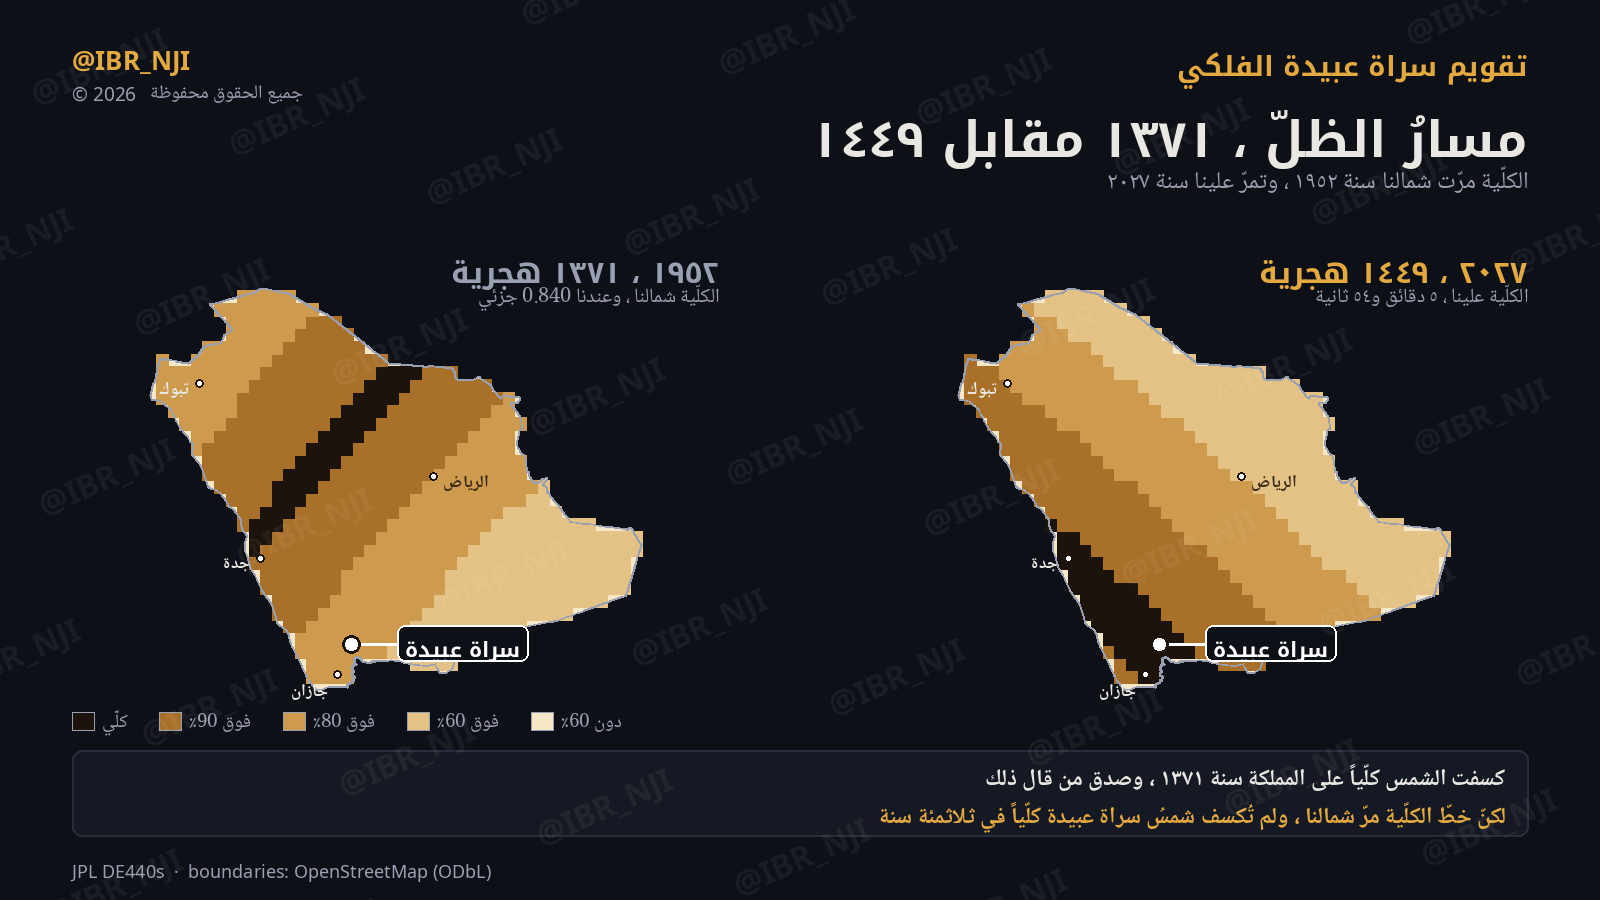
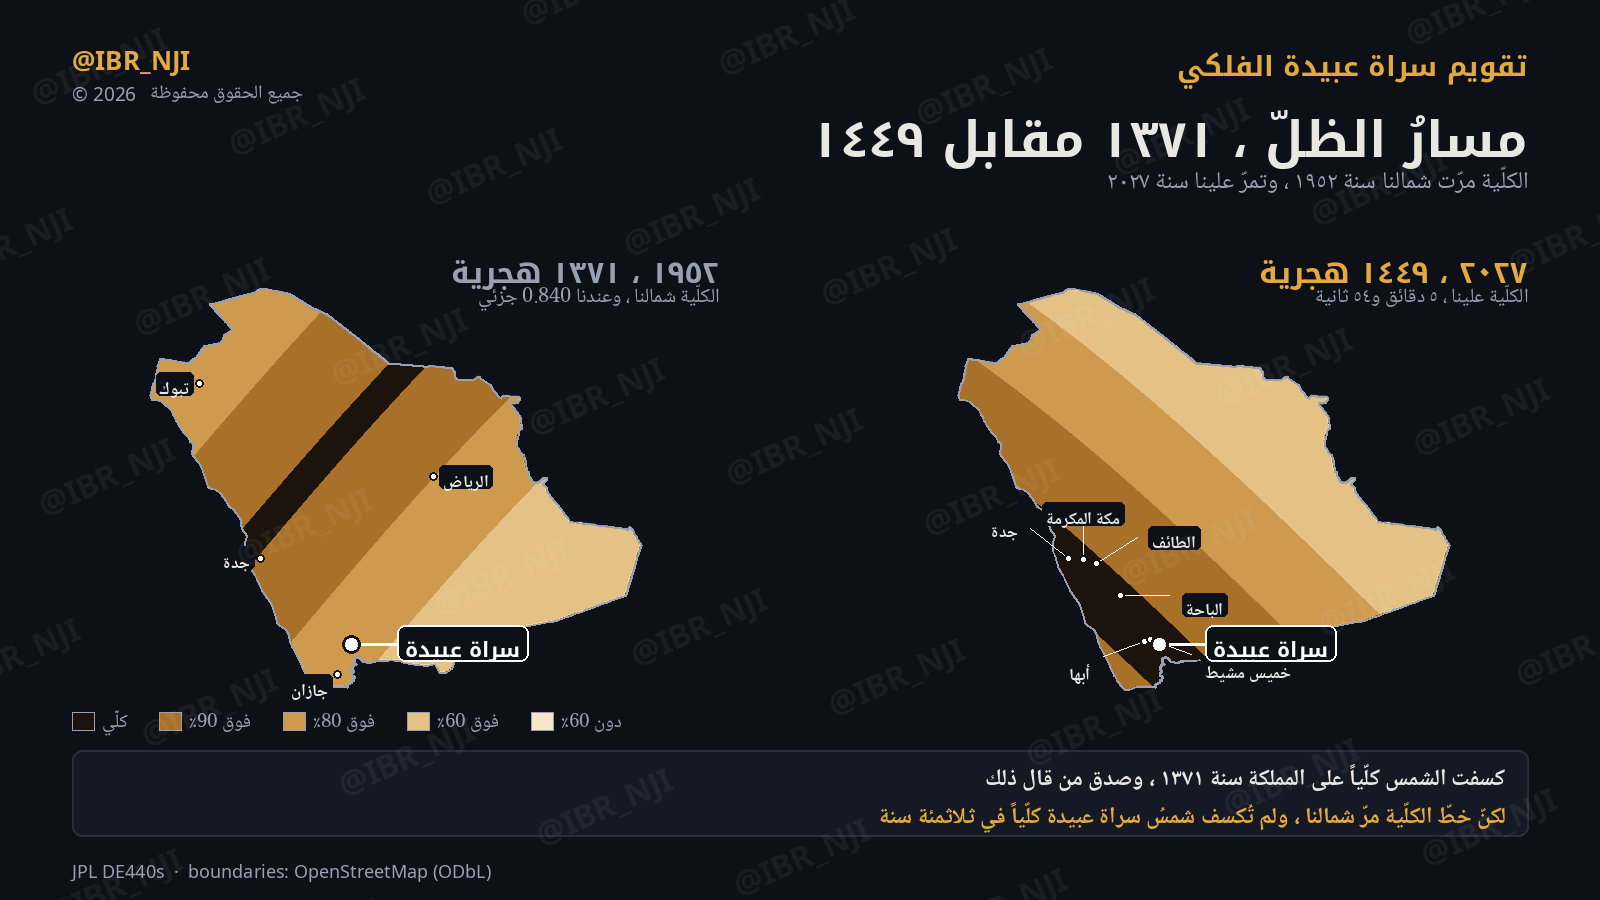
بطاقة مسار كسوف ٢٠٢٧: حقل حيّ بدقة البكسل بدل شبكة خشنة، والطرف الآن خط أملس دقيق لا أسنان متعرجة — ومدن المسار الست موسومة بخيوط قائد

diff --git a/dashboard.html b/dashboard.html
@@ -170,7 +170,7 @@
   <div>تقويم سراة عبيدة الفلكي · نحسب ولا ننقل · © 2026 جميع الحقوق محفوظة</div>
   <div>الحدود الإدارية من خرائط الشارع المفتوحة برخصة ODbL ·
     تقويم الكواكب JPL DE440s · مواقع النجوم Hipparcos</div>
-  <div class="build">آخر تحديث: 24 صفر 1448هـ · الجمعة 7 أغسطس 2026م · الإصدار 5810013 —
+  <div class="build">آخر تحديث: 25 صفر 1448هـ · السبت 8 أغسطس 2026م · الإصدار 5810013 —
     تُولَّد هذه الصفحات آلياً من المحرّك ولا تُحرَّر يدوياً</div>
 </footer>
 <script src="site.js?v=038343be7d" defer></script>

diff --git a/eclipse.html b/eclipse.html
@@ -129,7 +129,7 @@
   <div>تقويم سراة عبيدة الفلكي · نحسب ولا ننقل · © 2026 جميع الحقوق محفوظة</div>
   <div>الحدود الإدارية من خرائط الشارع المفتوحة برخصة ODbL ·
     تقويم الكواكب JPL DE440s · مواقع النجوم Hipparcos</div>
-  <div class="build">آخر تحديث: 24 صفر 1448هـ · الجمعة 7 أغسطس 2026م · الإصدار 5810013 —
+  <div class="build">آخر تحديث: 25 صفر 1448هـ · السبت 8 أغسطس 2026م · الإصدار 5810013 —
     تُولَّد هذه الصفحات آلياً من المحرّك ولا تُحرَّر يدوياً</div>
 </footer>
 <script src="site.js?v=038343be7d" defer></script>

diff --git a/eclipse2027.html b/eclipse2027.html
@@ -181,7 +181,7 @@
   <div>تقويم سراة عبيدة الفلكي · نحسب ولا ننقل · © 2026 جميع الحقوق محفوظة</div>
   <div>الحدود الإدارية من خرائط الشارع المفتوحة برخصة ODbL ·
     تقويم الكواكب JPL DE440s · مواقع النجوم Hipparcos</div>
-  <div class="build">آخر تحديث: 24 صفر 1448هـ · الجمعة 7 أغسطس 2026م · الإصدار 5810013 —
+  <div class="build">آخر تحديث: 25 صفر 1448هـ · السبت 8 أغسطس 2026م · الإصدار 5810013 —
     تُولَّد هذه الصفحات آلياً من المحرّك ولا تُحرَّر يدوياً</div>
 </footer>
 <script src="site.js?v=038343be7d" defer></script>

diff --git a/hilal.html b/hilal.html
@@ -149,7 +149,7 @@
   <div>تقويم سراة عبيدة الفلكي · نحسب ولا ننقل · © 2026 جميع الحقوق محفوظة</div>
   <div>الحدود الإدارية من خرائط الشارع المفتوحة برخصة ODbL ·
     تقويم الكواكب JPL DE440s · مواقع النجوم Hipparcos</div>
-  <div class="build">آخر تحديث: 24 صفر 1448هـ · الجمعة 7 أغسطس 2026م · الإصدار 5810013 —
+  <div class="build">آخر تحديث: 25 صفر 1448هـ · السبت 8 أغسطس 2026م · الإصدار 5810013 —
     تُولَّد هذه الصفحات آلياً من المحرّك ولا تُحرَّر يدوياً</div>
 </footer>
 <script src="site.js?v=038343be7d" defer></script>

diff --git a/index.html b/index.html
@@ -211,7 +211,7 @@
   <div>تقويم سراة عبيدة الفلكي · نحسب ولا ننقل · © 2026 جميع الحقوق محفوظة</div>
   <div>الحدود الإدارية من خرائط الشارع المفتوحة برخصة ODbL ·
     تقويم الكواكب JPL DE440s · مواقع النجوم Hipparcos</div>
-  <div class="build">آخر تحديث: 24 صفر 1448هـ · الجمعة 7 أغسطس 2026م · الإصدار 5810013 —
+  <div class="build">آخر تحديث: 25 صفر 1448هـ · السبت 8 أغسطس 2026م · الإصدار 5810013 —
     تُولَّد هذه الصفحات آلياً من المحرّك ولا تُحرَّر يدوياً</div>
 </footer>
 <script src="site.js?v=038343be7d" defer></script>

diff --git a/suhail.html b/suhail.html
@@ -191,7 +191,7 @@
   <div>تقويم سراة عبيدة الفلكي · نحسب ولا ننقل · © 2026 جميع الحقوق محفوظة</div>
   <div>الحدود الإدارية من خرائط الشارع المفتوحة برخصة ODbL ·
     تقويم الكواكب JPL DE440s · مواقع النجوم Hipparcos</div>
-  <div class="build">آخر تحديث: 24 صفر 1448هـ · الجمعة 7 أغسطس 2026م · الإصدار 5810013 —
+  <div class="build">آخر تحديث: 25 صفر 1448هـ · السبت 8 أغسطس 2026م · الإصدار 5810013 —
     تُولَّد هذه الصفحات آلياً من المحرّك ولا تُحرَّر يدوياً</div>
 </footer>
 <script src="site.js?v=038343be7d" defer></script>

diff --git a/mercjup.html b/mercjup.html
@@ -92,7 +92,7 @@
   <div>تقويم سراة عبيدة الفلكي · نحسب ولا ننقل · © 2026 جميع الحقوق محفوظة</div>
   <div>الحدود الإدارية من خرائط الشارع المفتوحة برخصة ODbL ·
     تقويم الكواكب JPL DE440s · مواقع النجوم Hipparcos</div>
-  <div class="build">آخر تحديث: 24 صفر 1448هـ · الجمعة 7 أغسطس 2026م · الإصدار 5810013 —
+  <div class="build">آخر تحديث: 25 صفر 1448هـ · السبت 8 أغسطس 2026م · الإصدار 5810013 —
     تُولَّد هذه الصفحات آلياً من المحرّك ولا تُحرَّر يدوياً</div>
 </footer>
 <script src="site.js?v=038343be7d" defer></script>

diff --git a/moonpleiades.html b/moonpleiades.html
@@ -84,7 +84,7 @@
   <div>تقويم سراة عبيدة الفلكي · نحسب ولا ننقل · © 2026 جميع الحقوق محفوظة</div>
   <div>الحدود الإدارية من خرائط الشارع المفتوحة برخصة ODbL ·
     تقويم الكواكب JPL DE440s · مواقع النجوم Hipparcos</div>
-  <div class="build">آخر تحديث: 24 صفر 1448هـ · الجمعة 7 أغسطس 2026م · الإصدار 5810013 —
+  <div class="build">آخر تحديث: 25 صفر 1448هـ · السبت 8 أغسطس 2026م · الإصدار 5810013 —
     تُولَّد هذه الصفحات آلياً من المحرّك ولا تُحرَّر يدوياً</div>
 </footer>
 <script src="site.js?v=038343be7d" defer></script>

diff --git a/perseids.html b/perseids.html
@@ -93,7 +93,7 @@
   <div>تقويم سراة عبيدة الفلكي · نحسب ولا ننقل · © 2026 جميع الحقوق محفوظة</div>
   <div>الحدود الإدارية من خرائط الشارع المفتوحة برخصة ODbL ·
     تقويم الكواكب JPL DE440s · مواقع النجوم Hipparcos</div>
-  <div class="build">آخر تحديث: 24 صفر 1448هـ · الجمعة 7 أغسطس 2026م · الإصدار 5810013 —
+  <div class="build">آخر تحديث: 25 صفر 1448هـ · السبت 8 أغسطس 2026م · الإصدار 5810013 —
     تُولَّد هذه الصفحات آلياً من المحرّك ولا تُحرَّر يدوياً</div>
 </footer>
 <script src="site.js?v=038343be7d" defer></script>

diff --git a/venus.html b/venus.html
@@ -93,7 +93,7 @@
   <div>تقويم سراة عبيدة الفلكي · نحسب ولا ننقل · © 2026 جميع الحقوق محفوظة</div>
   <div>الحدود الإدارية من خرائط الشارع المفتوحة برخصة ODbL ·
     تقويم الكواكب JPL DE440s · مواقع النجوم Hipparcos</div>
-  <div class="build">آخر تحديث: 24 صفر 1448هـ · الجمعة 7 أغسطس 2026م · الإصدار 5810013 —
+  <div class="build">آخر تحديث: 25 صفر 1448هـ · السبت 8 أغسطس 2026م · الإصدار 5810013 —
     تُولَّد هذه الصفحات آلياً من المحرّك ولا تُحرَّر يدوياً</div>
 </footer>
 <script src="site.js?v=038343be7d" defer></script>
